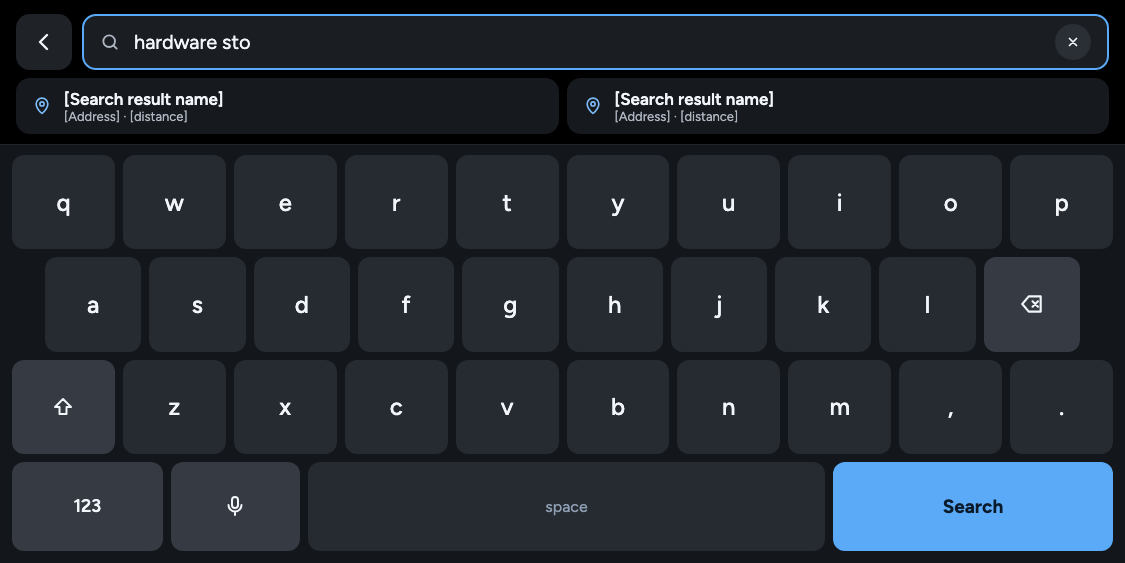
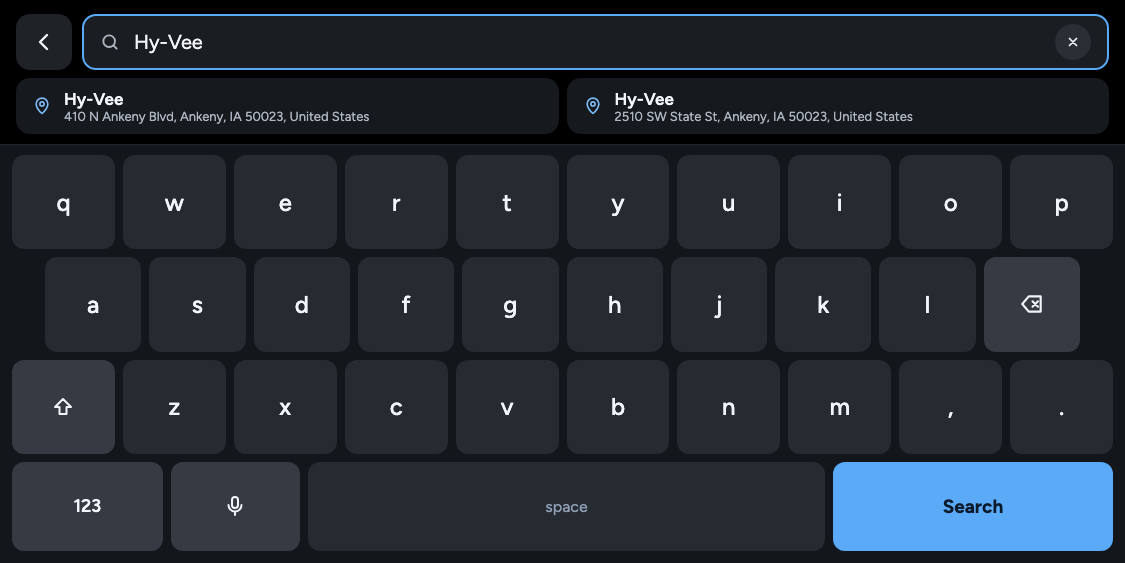
Show street in nav search results

Changed region(s): [[0.0622, 0.151, 0.3422, 0.2416], [0.5289, 0.151, 0.8089, 0.2114], [0.1244, 0.0604, 0.2178, 0.0906]]

diff --git a/selfdrive/ui/tandem/design/navsearch.html b/selfdrive/ui/tandem/design/navsearch.html
@@ -21,18 +21,18 @@ a{color:#7DBBF9}a:hover{color:#A9D3FB}
       <label style="flex-grow: 1; height: 56px; box-sizing: border-box; border-radius: 14px; background: #1A1D22; border: 2px solid #5AAAF8; display: flex; align-items: center; gap: 12px; padding: 0 16px;">
         <svg width="20" height="20" viewBox="0 0 24 24" fill="none" stroke="#AEB6C2" stroke-width="2.2" stroke-linecap="round" aria-hidden="true"><circle cx="11" cy="11" r="7"></circle><path d="M20 20l-4-4"></path></svg>
         <span style="position: absolute; width: 1px; height: 1px; overflow: hidden;">Search destination</span>
-        <input type="text" value="hardware sto" style="flex-grow: 1; border: 0; background: transparent; color: #F2F5F9; font-family: inherit; font-size: 20px; outline: none;">
+        <input type="text" value="Hy-Vee" style="flex-grow: 1; border: 0; background: transparent; color: #F2F5F9; font-family: inherit; font-size: 20px; outline: none;">
         <button type="button" aria-label="Clear" style="width: 36px; height: 36px; border: 0; border-radius: 18px; background: #2A2F36; display: flex; align-items: center; justify-content: center;"><svg width="14" height="14" viewBox="0 0 24 24" fill="none" stroke="#F2F5F9" stroke-width="3" stroke-linecap="round" aria-hidden="true"><path d="M6 6l12 12M18 6L6 18"></path></svg></button>
       </label>
     </div>
     <div style="display: grid; grid-template-columns: repeat(2, minmax(0, 1fr)); gap: 8px;">
       <a href="routepreview.html" style="text-decoration: none; color: inherit; height: 56px; border-radius: 14px; background: #16191D; display: flex; align-items: center; gap: 12px; padding: 0 16px;">
         <svg width="20" height="20" viewBox="0 0 24 24" fill="none" stroke="#7DBBF9" stroke-width="2" stroke-linecap="round" stroke-linejoin="round" aria-hidden="true"><path d="M12 21s-7-6.2-7-11.5a7 7 0 0 1 14 0C19 14.8 12 21 12 21z"></path><circle cx="12" cy="9.5" r="2.5"></circle></svg>
-        <div style="flex-grow: 1; display: flex; flex-direction: column; min-width: 0;"><span style="font-size: 17px; font-weight: 600;">[Search result name]</span><span style="font-size: 13px; color: #AEB6C2;">[Address] · [distance]</span></div>
+        <div style="flex: 1; display: flex; flex-direction: column; min-width: 0;"><span style="font-size: 17px; font-weight: 600; white-space: nowrap; overflow: hidden; text-overflow: ellipsis;">Hy-Vee</span><span style="font-size: 13px; color: #AEB6C2; white-space: nowrap; overflow: hidden; text-overflow: ellipsis;">410 N Ankeny Blvd, Ankeny, IA 50023, United States</span></div>
       </a>
       <div style="height: 56px; border-radius: 14px; background: #16191D; display: flex; align-items: center; gap: 12px; padding: 0 16px;">
         <svg width="20" height="20" viewBox="0 0 24 24" fill="none" stroke="#7DBBF9" stroke-width="2" stroke-linecap="round" stroke-linejoin="round" aria-hidden="true"><path d="M12 21s-7-6.2-7-11.5a7 7 0 0 1 14 0C19 14.8 12 21 12 21z"></path><circle cx="12" cy="9.5" r="2.5"></circle></svg>
-        <div style="flex-grow: 1; display: flex; flex-direction: column; min-width: 0;"><span style="font-size: 17px; font-weight: 600;">[Search result name]</span><span style="font-size: 13px; color: #AEB6C2;">[Address] · [distance]</span></div>
+        <div style="flex: 1; display: flex; flex-direction: column; min-width: 0;"><span style="font-size: 17px; font-weight: 600; white-space: nowrap; overflow: hidden; text-overflow: ellipsis;">Hy-Vee</span><span style="font-size: 13px; color: #AEB6C2; white-space: nowrap; overflow: hidden; text-overflow: ellipsis;">2510 SW State St, Ankeny, IA 50023, United States</span></div>
       </div>
     </div>
   </div>

diff --git a/selfdrive/ui/tandem/tests/test_destinations.py b/selfdrive/ui/tandem/tests/test_destinations.py
@@ -1,3 +1,7 @@
+import sys
+from dataclasses import dataclass, replace
+from types import SimpleNamespace
+
 import pytest
 
 from openpilot.selfdrive.ui.tandem import keyboard as K
@@ -21,6 +25,65 @@ def _screen(**kw):
 def _type(screen, text):
   for ch in text:
     screen._keys._all_keys[ch]._click_callback()
+
+
+@pytest.mark.parametrize("fields, expected", [
+  ({"full_address": "410 N Ankeny Blvd, Ankeny, IA 50023", "address": "410 N Ankeny Blvd",
+    "place_formatted": "Ankeny, IA 50023"}, "410 N Ankeny Blvd, Ankeny, IA 50023"),
+  ({"address": "2510 SW State St", "place_formatted": "Ankeny, IA 50023"}, "2510 SW State St, Ankeny, IA 50023"),
+  ({"full_address": " 410 N Ankeny Blvd, Ankeny, IA 50023 "}, "410 N Ankeny Blvd, Ankeny, IA 50023"),
+  ({"address": " 410 N Ankeny Blvd ", "place_formatted": " Ankeny, IA 50023 "}, "410 N Ankeny Blvd, Ankeny, IA 50023"),
+  ({"address": "410 N Ankeny Blvd"}, "410 N Ankeny Blvd"),
+  ({"place_formatted": "Ankeny, IA 50023"}, "Ankeny, IA 50023"),
+  ({}, ""),
+])
+@pytest.mark.parametrize("retrieved", [False, True])
+def test_search_address_includes_street_without_repeating_locality(fields, expected, retrieved):
+  payload = {"properties": fields} if retrieved else fields
+  assert D.search_address(payload) == expected
+
+
+def test_tandem_search_client_preserves_results_and_distinguishes_branches(monkeypatch):
+  @dataclass(frozen=True)
+  class Result:
+    name: str
+    subtitle: str
+    mapbox_id: str
+    latitude: float = 41.7
+    longitude: float = -93.6
+
+  normalized = []
+
+  class Client:
+    @classmethod
+    def _normalize_result(cls, payload):
+      if not payload.get("name"):
+        return None
+      result = Result(payload["name"], payload.get("place_formatted", ""), payload["mapbox_id"])
+      normalized.append(result)
+      return result
+
+  monkeypatch.setitem(sys.modules, "openpilot.selfdrive.ui.layouts.settings.starpilot.navigation", SimpleNamespace(
+    MapboxSearchClient=Client, StarPilotNavigationLayout=lambda: SimpleNamespace(_search_client=Client())))
+  places = D.UpstreamPlaces()
+  client = places._nav._search_client
+  assert isinstance(client, Client)
+  payloads = [
+    {"name": "Hy-Vee", "mapbox_id": "north", "place_formatted": "Ankeny, IA 50023",
+     "full_address": "410 N Ankeny Blvd, Ankeny, IA 50023"},
+    {"name": "Hy-Vee", "mapbox_id": "south", "place_formatted": "Ankeny, IA 50023", "address": "2510 SW State St"},
+  ]
+  places._nav._search_results = [client._normalize_result(p) for p in payloads]
+  assert places.results() == [
+    ("Hy-Vee", "410 N Ankeny Blvd, Ankeny, IA 50023"),
+    ("Hy-Vee", "2510 SW State St, Ankeny, IA 50023"),
+  ]
+  for original, result in zip(normalized, places._nav._search_results, strict=True):
+    assert replace(result, subtitle=original.subtitle) == original   # IDs and coordinates still come from upstream
+  assert client._normalize_result({}) is None
+  result = client._normalize_result({"name": "410 N Ankeny Blvd", "mapbox_id": "address",
+                                     "full_address": "410 N Ankeny Blvd, Ankeny, IA 50023"})
+  assert result.subtitle == "Ankeny, IA 50023"   # address searches already put the street on the first line
 
 
 def test_typing_searches_after_a_pause_and_search_lists_everything(monkeypatch):

diff --git a/selfdrive/ui/tandem/destinations.py b/selfdrive/ui/tandem/destinations.py
@@ -9,6 +9,7 @@ from __future__ import annotations
 
 import time
 from collections.abc import Callable
+from dataclasses import replace
 from typing import Any, Protocol
 
 import pyray as rl
@@ -45,6 +46,17 @@ def place_line(place: dict[str, Any] | None) -> str:
   return full[len(name) + 2:] if full.startswith(name + ", ") else full
 
 
+def search_address(payload: dict[str, Any]) -> str:
+  """Street first, from a Search Box suggestion or retrieved feature's properties."""
+  properties = payload.get("properties")
+  properties = properties if isinstance(properties, dict) else {}
+
+  def field(key: str) -> str:
+    return str(payload.get(key) or properties.get(key) or "").strip()
+
+  return field("full_address") or ", ".join(part for part in (field("address"), field("place_formatted")) if part)
+
+
 class Places(Protocol):
   """What the screens need from StarPilot's navigation. UpstreamPlaces is the real one."""
 
@@ -77,8 +89,19 @@ class UpstreamPlaces:
   """Places backed by StarPilot's navigation controller."""
 
   def __init__(self):
-    from openpilot.selfdrive.ui.layouts.settings.starpilot.navigation import StarPilotNavigationLayout
+    from openpilot.selfdrive.ui.layouts.settings.starpilot.navigation import MapboxSearchClient, StarPilotNavigationLayout
+
+    class AddressSearchClient(MapboxSearchClient):
+      @classmethod
+      def _normalize_result(cls, payload):
+        result = super()._normalize_result(payload)
+        if result is None:
+          return None
+        address = search_address(payload) or result.subtitle
+        return replace(result, subtitle=place_line({"name": result.name, "place_name": address}))
+
     self._nav = StarPilotNavigationLayout()
+    self._nav._search_client = AddressSearchClient()
     self._routes = RouteFetcher(mapbox_route)
 
   def tick(self) -> None:

diff --git a/selfdrive/ui/tandem/tools/render/scene_destinations.py b/selfdrive/ui/tandem/tools/render/scene_destinations.py
@@ -16,10 +16,14 @@ def main(frame, save, out, tap, gui_app):
 
   shot("destinations")
   screen._go(D.SEARCH)
-  screen._keys.set_text("hardware sto")
-  places.search("hardware sto")
-  screen._searched = "hardware sto"
-  screen._typed = "hardware sto"
+  screen._keys.set_text("Hy-Vee")
+  # Sample branches with the same name and locality; the street distinguishes them on the existing second line.
+  places.found = [
+    ("Hy-Vee", "410 N Ankeny Blvd, Ankeny, IA 50023, United States"),
+    ("Hy-Vee", "2510 SW State St, Ankeny, IA 50023, United States"),
+  ]
+  screen._searched = "Hy-Vee"
+  screen._typed = "Hy-Vee"
   shot("navsearch")
   # Voice typing's three states, set directly: no worker or microphone here.
   session = screen._keys._voice
@@ -30,9 +34,10 @@ def main(frame, save, out, tap, gui_app):
     session.state, session.progress = state, 0.42
     shot(name)
   session.state = "idle"
-  screen._keys.set_text("hardware sto")
+  screen._keys.set_text("Hy-Vee")
   screen._view = D.RESULTS
   shot("navresults")
+  places.search("hardware sto")   # keep the route preview's sample place
   screen._pick_result(0)
   screen._update_state()
   shot("routepreview")

diff --git a/selfdrive/ui/tandem/README.md b/selfdrive/ui/tandem/README.md
@@ -194,7 +194,7 @@ These are reached from a row or button, never as a tab:
   - **Removed:** the driving personality button, the experimental-mode wheel, the favorites menu (the lower-left gesture), the picture-in-picture side camera (a Galaxy developer feature), the stopped timer, and the paused and weather badges, which the chips replace.
   - **Alerts** (`onroad/alerts.py`): StarPilot's alert renderer keeps its choice of alert, timing, sound and fades; the drawing follows the three levels in `design/alertstyles.html`. Info (normal and StarPilot alerts) is a dark pill at the bottom and the border keeps its color. Warning (prompts) is an amber two-line card with an amber border. Critical (full-screen or critical alerts) is a dark red takeover with a steering wheel icon and a red border, and the sign hides under it. Reverse gear keeps StarPilot's text-only drawing over the rear view. Light Turned Green, Lead Departed, lane changes and turn progress show as status chips instead of banners; their chime still plays and the bar stays usable. The bar, chip, new-limit card and driver monitor tile hide during any other alert.
   - **Driver monitor** (top right corner): upstream's driver state drawn as a dark tile with the driver icon, ringed green while attentive and amber as attention drops, dimmed when the camera isn't monitoring, hidden during alerts as upstream does.
-- **Where to?** (`destinations.py`, mocks `destinations.html`, `navsearch.html`, `routepreview.html`): one full-screen widget with three views, opened from Home and from Settings › Navigation. StarPilot's navigation controller still does the work (Mapbox search and resolving, favorites with Home and Work, recents, starting and ending a route); `UpstreamPlaces` reaches into it. The route preview (`routemap.py`) asks Mapbox for the route the way navigationd does (`MapboxRouteEngine`, `MapboxSecretKey` and the last GPS fix), in the background, and draws it on the mock's stylized map with Arrive, Time and Distance. There are no map tiles; the route is fitted to the panel, north up. This is one extra directions request per previewed place, before navigationd makes its own on Start.
+- **Where to?** (`destinations.py`, mocks `destinations.html`, `navsearch.html`, `routepreview.html`): one full-screen widget with three views, opened from Home and from Settings › Navigation. StarPilot's navigation controller still does the work (Mapbox search and resolving, favorites with Home and Work, recents, starting and ending a route); `UpstreamPlaces` reaches into it. Tandem subclasses its search client to keep Mapbox's `full_address` (or `address` plus `place_formatted`) instead of only the locality. Keyboard suggestions and the full results list show the street first on the existing detail line, with an ellipsis for long addresses; names, row heights, result order and selection are unchanged. Results without a street still show their locality. The route preview (`routemap.py`) asks Mapbox for the route the way navigationd does (`MapboxRouteEngine`, `MapboxSecretKey` and the last GPS fix), in the background, and draws it on the mock's stylized map with Arrive, Time and Distance. There are no map tiles; the route is fitted to the panel, north up. This is one extra directions request per previewed place, before navigationd makes its own on Start.
   - The list: Home and Work tiles (a tile with nothing saved searches for one and sets it), Add favorite, other favorites, recents with a star, and the active route with End route. Offline maps ready shows when maps are downloaded.
   - Search: the keyboard sits in the page; results update 0.6 s after you stop typing (from 3 letters), and Search lists them all without the keyboard.
   - Voice typing (`voice.py`, `speech.py`, `speech_native.py`, mocks `voicelistening.html`, `voicetranscribing.html`, `voicedownload.html`): a mic beside 123 on every keyboard except passwords, parked or driving. Driving, the worker reads micd's audio (`rawAudioData`, which micd publishes while it holds the microphone) instead of opening it, and runs whisper.cpp with 2 threads on cores 0-3, away from controlsd and card (4), plannerd, radard and selfdrived (5) and modeld (7), which are real-time anyway (`speech.driving_limits`); if no audio arrives within 2 s it says so. `worker.log` records each transcription's time and mode. The tinygrad fallback uses the GPU, so it stays parked-only. Listening ends on a tap, after a 1.5 s pause, after 6 s with nothing said, or at 15 s. The words land in the field for editing; nothing is searched or saved until the action key. Address fields prime Whisper with an example address and use `address_text` to join digit-by-digit house numbers and write street ordinals.
